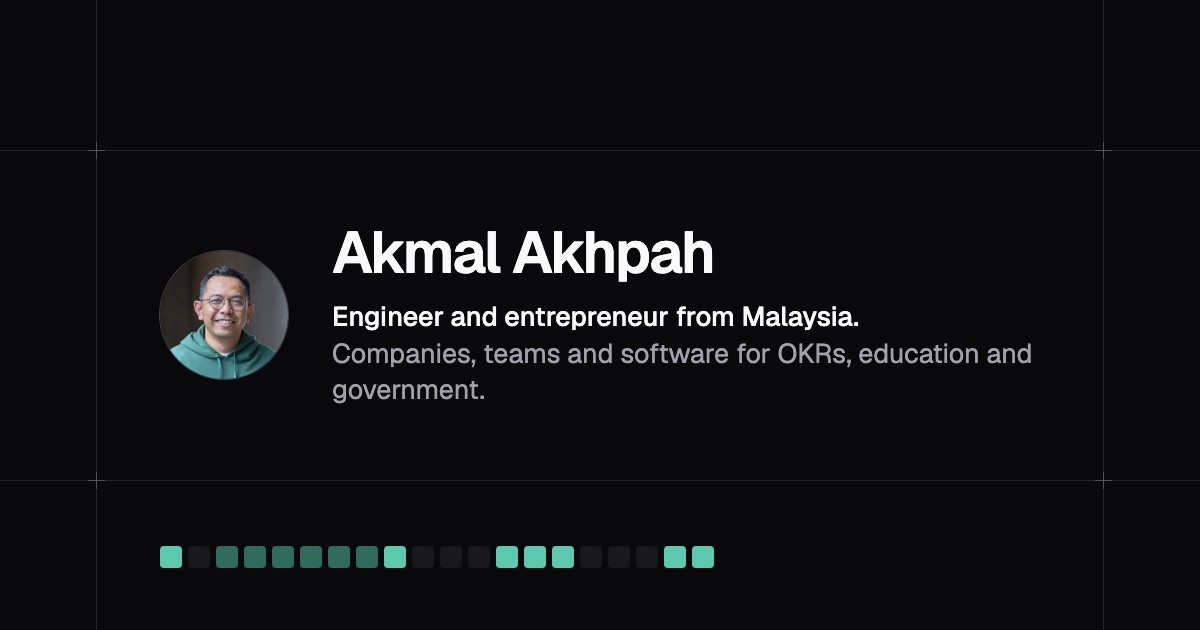
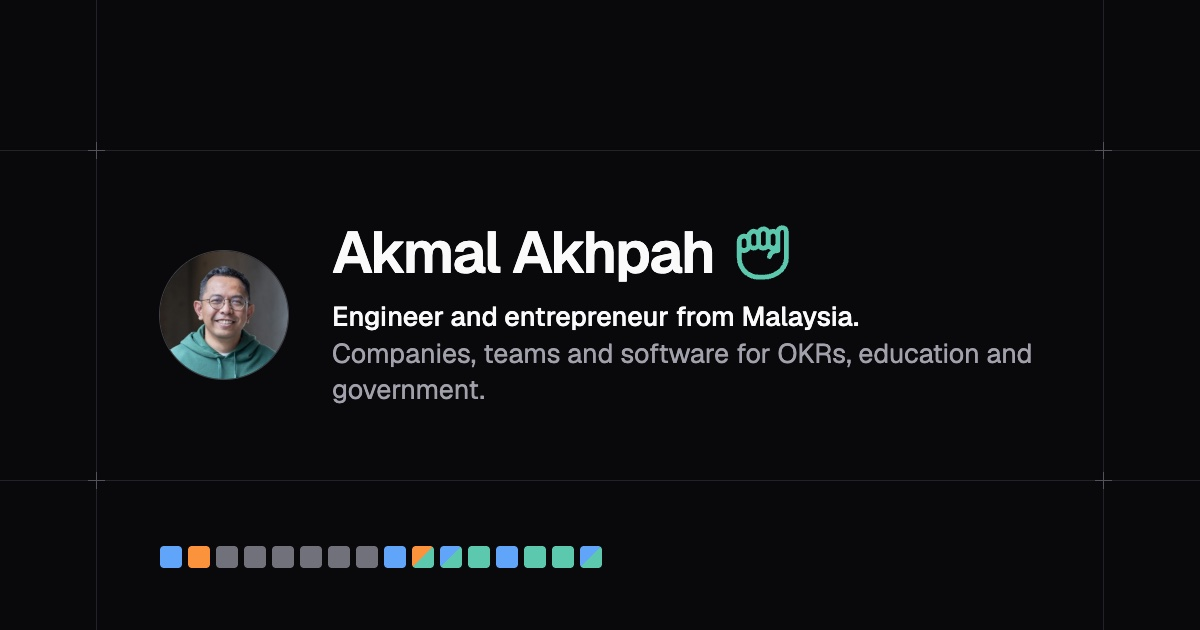
Redraw the share image with the area colours and the hand
The squares now match the home page: the same years in blue, green and
orange, with grey for the WHO years and split squares for years with
two areas. The hand sits after the name, as on the site.

The og:image tag points to og.jpg?v=2 so social sites fetch the new
picture instead of their saved copy.

diff --git a/work.html b/work.html
@@ -24,7 +24,7 @@
 <meta property="og:type" content="website">
 <meta property="og:title" content="Work: OKR, EdTech and GovTech · Akmal Akhpah">
 <meta property="og:description" content="What I work on in OKRs, education and government: OKR Institute, FlowyTeam, OpenOKR, Pandai, P&amp;AI, FDE Training, Aidan and BORANG.">
-<meta property="og:image" content="https://akm.al/assets/img/og.jpg">
+<meta property="og:image" content="https://akm.al/assets/img/og.jpg?v=2">
 <meta property="og:image:width" content="1200">
 <meta property="og:image:height" content="630">
 <meta property="og:image:alt" content="Akmal Akhpah. Engineer and entrepreneur from Malaysia.">

diff --git a/speaking.html b/speaking.html
@@ -24,7 +24,7 @@
 <meta property="og:type" content="website">
 <meta property="og:title" content="Speaking · Akmal Akhpah">
 <meta property="og:description" content="Topics I can talk about, places I have spoken, and how to invite me. AI in the OKR cycle, AI in the classroom, and working with government.">
-<meta property="og:image" content="https://akm.al/assets/img/og.jpg">
+<meta property="og:image" content="https://akm.al/assets/img/og.jpg?v=2">
 <meta property="og:image:width" content="1200">
 <meta property="og:image:height" content="630">
 <meta property="og:image:alt" content="Akmal Akhpah. Engineer and entrepreneur from Malaysia.">

diff --git a/index.html b/index.html
@@ -24,7 +24,7 @@
 <meta property="og:type" content="profile">
 <meta property="og:title" content="Akmal Akhpah, engineer and entrepreneur">
 <meta property="og:description" content="Engineer and entrepreneur from Malaysia. I build companies, teams and software for OKRs, education and government.">
-<meta property="og:image" content="https://akm.al/assets/img/og.jpg">
+<meta property="og:image" content="https://akm.al/assets/img/og.jpg?v=2">
 <meta property="og:image:width" content="1200">
 <meta property="og:image:height" content="630">
 <meta property="og:image:alt" content="Akmal Akhpah. Engineer and entrepreneur from Malaysia.">

diff --git a/writing/the-quarter-i-think-about-most.html b/writing/the-quarter-i-think-about-most.html
@@ -24,7 +24,7 @@
 <meta property="og:type" content="article">
 <meta property="og:title" content="The quarter I think about most · Akmal Akhpah">
 <meta property="og:description" content="About one in four Pandai users live in rural areas. Why they shape almost every technical decision we make.">
-<meta property="og:image" content="https://akm.al/assets/img/og.jpg">
+<meta property="og:image" content="https://akm.al/assets/img/og.jpg?v=2">
 <meta property="og:image:width" content="1200">
 <meta property="og:image:height" content="630">
 <meta property="og:image:alt" content="Akmal Akhpah. Engineer and entrepreneur from Malaysia.">

diff --git a/about.html b/about.html
@@ -24,7 +24,7 @@
 <meta property="og:type" content="profile">
 <meta property="og:title" content="About Akmal Akhpah">
 <meta property="og:description" content="The people and places I learned from, from Intel in Cyberjaya to the WHO in Geneva to building companies with my school friends.">
-<meta property="og:image" content="https://akm.al/assets/img/og.jpg">
+<meta property="og:image" content="https://akm.al/assets/img/og.jpg?v=2">
 <meta property="og:image:width" content="1200">
 <meta property="og:image:height" content="630">
 <meta property="og:image:alt" content="Akmal Akhpah. Engineer and entrepreneur from Malaysia.">

diff --git a/writing/what-government-taught-me.html b/writing/what-government-taught-me.html
@@ -24,7 +24,7 @@
 <meta property="og:type" content="article">
 <meta property="og:title" content="What government taught me · Akmal Akhpah">
 <meta property="og:description" content="From Geneva to BORANG to classrooms in Borneo. Trust is slower than technology, and it lasts longer.">
-<meta property="og:image" content="https://akm.al/assets/img/og.jpg">
+<meta property="og:image" content="https://akm.al/assets/img/og.jpg?v=2">
 <meta property="og:image:width" content="1200">
 <meta property="og:image:height" content="630">
 <meta property="og:image:alt" content="Akmal Akhpah. Engineer and entrepreneur from Malaysia.">

diff --git a/now.html b/now.html
@@ -24,7 +24,7 @@
 <meta property="og:type" content="website">
 <meta property="og:title" content="Now · Akmal Akhpah">
 <meta property="og:description" content="What I am focused on this season: World OKR Summit, OpenOKR, AI in classrooms, and open infrastructure for learning.">
-<meta property="og:image" content="https://akm.al/assets/img/og.jpg">
+<meta property="og:image" content="https://akm.al/assets/img/og.jpg?v=2">
 <meta property="og:image:width" content="1200">
 <meta property="og:image:height" content="630">
 <meta property="og:image:alt" content="Akmal Akhpah. Engineer and entrepreneur from Malaysia.">

diff --git a/writing/i-met-okrs-at-intel.html b/writing/i-met-okrs-at-intel.html
@@ -24,7 +24,7 @@
 <meta property="og:type" content="article">
 <meta property="og:title" content="I met OKRs at Intel · Akmal Akhpah">
 <meta property="og:description" content="Twenty years with goal setting, and what I think AI should and should not do in the OKR cycle.">
-<meta property="og:image" content="https://akm.al/assets/img/og.jpg">
+<meta property="og:image" content="https://akm.al/assets/img/og.jpg?v=2">
 <meta property="og:image:width" content="1200">
 <meta property="og:image:height" content="630">
 <meta property="og:image:alt" content="Akmal Akhpah. Engineer and entrepreneur from Malaysia.">

diff --git a/writing/the-hard-part-is-never-the-model.html b/writing/the-hard-part-is-never-the-model.html
@@ -24,7 +24,7 @@
 <meta property="og:type" content="article">
 <meta property="og:title" content="The hard part is never the model · Akmal Akhpah">
 <meta property="og:description" content="What we learned building AI for Malaysian students. The model is the easy bit.">
-<meta property="og:image" content="https://akm.al/assets/img/og.jpg">
+<meta property="og:image" content="https://akm.al/assets/img/og.jpg?v=2">
 <meta property="og:image:width" content="1200">
 <meta property="og:image:height" content="630">
 <meta property="og:image:alt" content="Akmal Akhpah. Engineer and entrepreneur from Malaysia.">

diff --git a/writing/index.html b/writing/index.html
@@ -24,7 +24,7 @@
 <meta property="og:type" content="website">
 <meta property="og:title" content="Writing · Akmal Akhpah">
 <meta property="og:description" content="Notes on OKRs, AI in education, building for government, and lessons I picked up from other people.">
-<meta property="og:image" content="https://akm.al/assets/img/og.jpg">
+<meta property="og:image" content="https://akm.al/assets/img/og.jpg?v=2">
 <meta property="og:image:width" content="1200">
 <meta property="og:image:height" content="630">
 <meta property="og:image:alt" content="Akmal Akhpah. Engineer and entrepreneur from Malaysia.">

diff --git a/writing/nine-days-before-the-deadline.html b/writing/nine-days-before-the-deadline.html
@@ -24,7 +24,7 @@
 <meta property="og:type" content="article">
 <meta property="og:title" content="Nine days before the deadline · Akmal Akhpah">
 <meta property="og:description" content="How three school friends decided, in one afternoon, to apply to Y Combinator.">
-<meta property="og:image" content="https://akm.al/assets/img/og.jpg">
+<meta property="og:image" content="https://akm.al/assets/img/og.jpg?v=2">
 <meta property="og:image:width" content="1200">
 <meta property="og:image:height" content="630">
 <meta property="og:image:alt" content="Akmal Akhpah. Engineer and entrepreneur from Malaysia.">

diff --git a/writing/notes-from-other-peoples-talks.html b/writing/notes-from-other-peoples-talks.html
@@ -24,7 +24,7 @@
 <meta property="og:type" content="article">
 <meta property="og:title" content="Why I write notes from other people&#x27;s talks · Akmal Akhpah">
 <meta property="og:description" content="Most of what I know, I learned sitting in the audience.">
-<meta property="og:image" content="https://akm.al/assets/img/og.jpg">
+<meta property="og:image" content="https://akm.al/assets/img/og.jpg?v=2">
 <meta property="og:image:width" content="1200">
 <meta property="og:image:height" content="630">
 <meta property="og:image:alt" content="Akmal Akhpah. Engineer and entrepreneur from Malaysia.">
